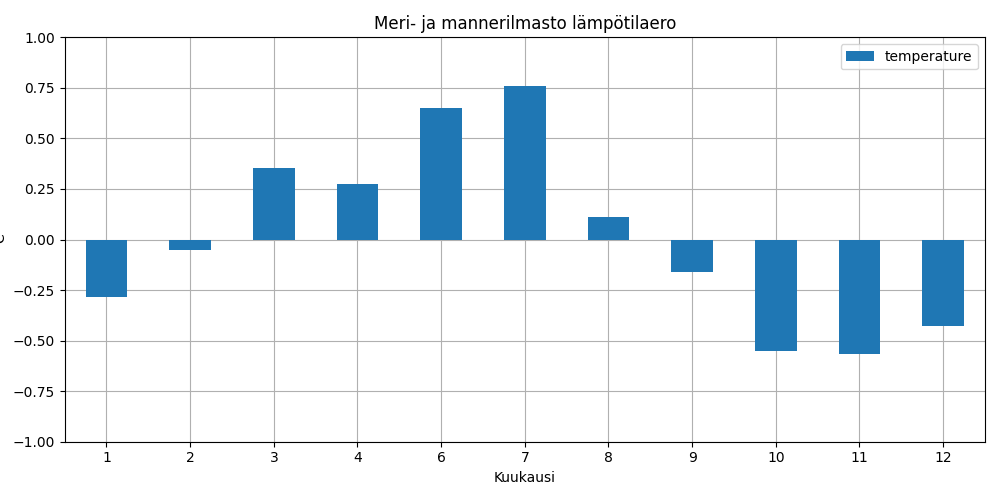
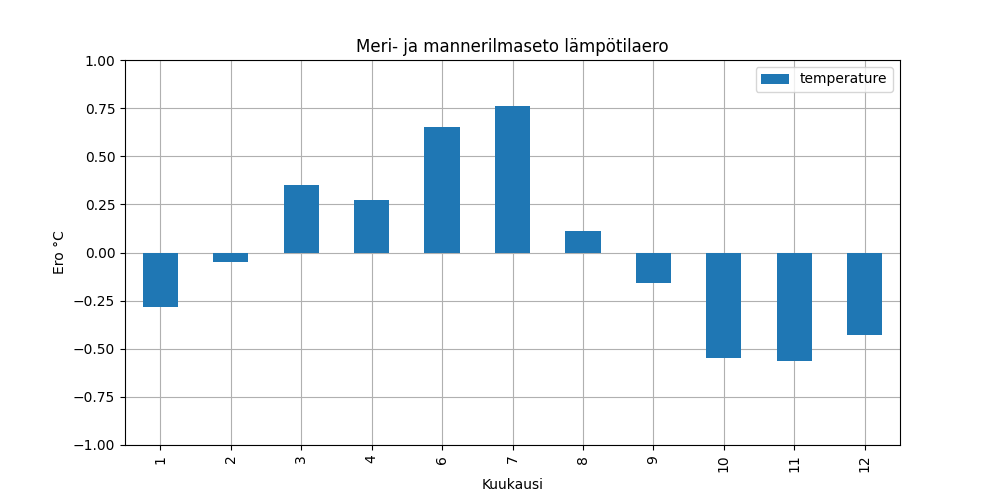
Refactor temperature plotting functions and update graph generation in continental coastal temperature analysis

diff --git a/server/src/analysis/all_locations/continental_coastal_temp.py b/server/src/analysis/all_locations/continental_coastal_temp.py
@@ -1,7 +1,9 @@
-import asyncio
-
 import matplotlib.pyplot as plt
-from src.utils.analysis_utils import daily_avg_temp
+from src.utils.analysis_utils import (
+    daily_avg_temp,
+    plot_daily_temp_avg,
+    plot_monthly_temp_diff,
+)
 from src.utils.filter_tag import filter_df_by_tag
 from src.utils.get_data_util import get_all_locations
 from src.utils.save_graph import save_graph
@@ -15,7 +17,7 @@ def main():
     df_manner = filter_df_by_tag(df, "manner")
     avg_manner = daily_avg_temp(df_manner)
 
-    plt = plot_data(
+    plt = plot_daily_temp_avg(
         avg_manner,
         avg_meri,
         "Meri- ja mannerilmasto",
@@ -27,49 +29,13 @@ def main():
     save_graph("continental coastal temp diff", plt, "all_locations")
     plt.clf()
 
-    plt2 = plot_diff_bar(df_manner, df_meri)
+    plt2 = plot_monthly_temp_diff(
+        df_manner, df_meri, "Meri- ja mannerilmaseto lämpötilaero", (-1, 1)
+    )
     save_graph("continental coastal monthly temp diff", plt2, "all_locations")
     plt2.clf()
 
     return
-
-
-def plot_data(df1, df2, title, df1_label, df2_label, xlabel, ylabel):
-    df1.plot(kind="line", label=df1_label, color="orange")
-    df2.plot(kind="line", label=df2_label, color="royalblue")
-
-    avg_diff = df1 - df2
-    avg_diff.plot(kind="line", label="Lämpötilaero", color="red", figsize=(10, 5))
-
-    plt.title(title)
-    plt.axhline(y=0, color="black", linestyle="--", linewidth=1)
-    plt.xlabel(xlabel)
-    plt.ylabel(ylabel)
-    plt.legend()
-    plt.grid(True)
-    plt.tight_layout()
-
-    return plt
-
-
-def plot_diff_bar(df1, df2):
-    df1["month"] = df1["time"].dt.month
-    df2["month"] = df2["time"].dt.month
-
-    mean1 = df1.groupby("month")["temperature"].mean()
-    mean2 = df2.groupby("month")["temperature"].mean()
-
-    diff = mean1 - mean2
-
-    diff.plot(kind="bar", ylim=(-1, 1), figsize=(10, 5), zorder=3)
-    plt.grid(True, zorder=0)
-    plt.title("Meri- ja mannerilmasto lämpötilaero")
-    plt.xlabel("Kuukausi")
-    plt.xticks(rotation=0)
-    plt.legend()
-    plt.ylabel("°C")
-
-    return plt
 
 
 if __name__ == "__main__":

diff --git a/server/src/utils/analysis_utils.py b/server/src/utils/analysis_utils.py
@@ -3,8 +3,9 @@ from src.utils.utils import filter_daytime_data
 
 
 def daily_avg_temp(df):
-    df = filter_daytime_data(df)
-    df["date"] = df["time"].dt.date
+    df = filter_daytime_data(df).copy()
+
+    df.loc[:, "date"] = df["time"].dt.date
 
     return df.groupby("date")["temperature"].mean()
 
@@ -22,8 +23,12 @@ def plot_daily_temp_avg(
 ):
     plt.clf()
 
-    df1.plot(kind="line", label=df1_label, color=line1_color)
-    df2.plot(kind="line", label=df2_label, color=line2_color)
+    df1.plot(
+        kind="line", label=df1_label, color=line1_color if line1_color else "orange"
+    )
+    df2.plot(
+        kind="line", label=df2_label, color=line2_color if line2_color else "royalblue"
+    )
 
     avg_diff = df1 - df2
     avg_diff.plot(kind="line", label="Lämpötilaero", color="red", figsize=(10, 5))
@@ -40,8 +45,11 @@ def plot_daily_temp_avg(
 def plot_monthly_temp_diff(df1, df2, title, ylim=None):
     plt.clf()
 
-    df1["month"] = df1["time"].dt.month
-    df2["month"] = df2["time"].dt.month
+    df1 = df1.copy()
+    df2 = df2.copy()
+
+    df1.loc[:, "month"] = df1["time"].dt.month
+    df2.loc[:, "month"] = df2["time"].dt.month
 
     mean1 = df1.groupby("month")["temperature"].mean()
     mean2 = df2.groupby("month")["temperature"].mean()
